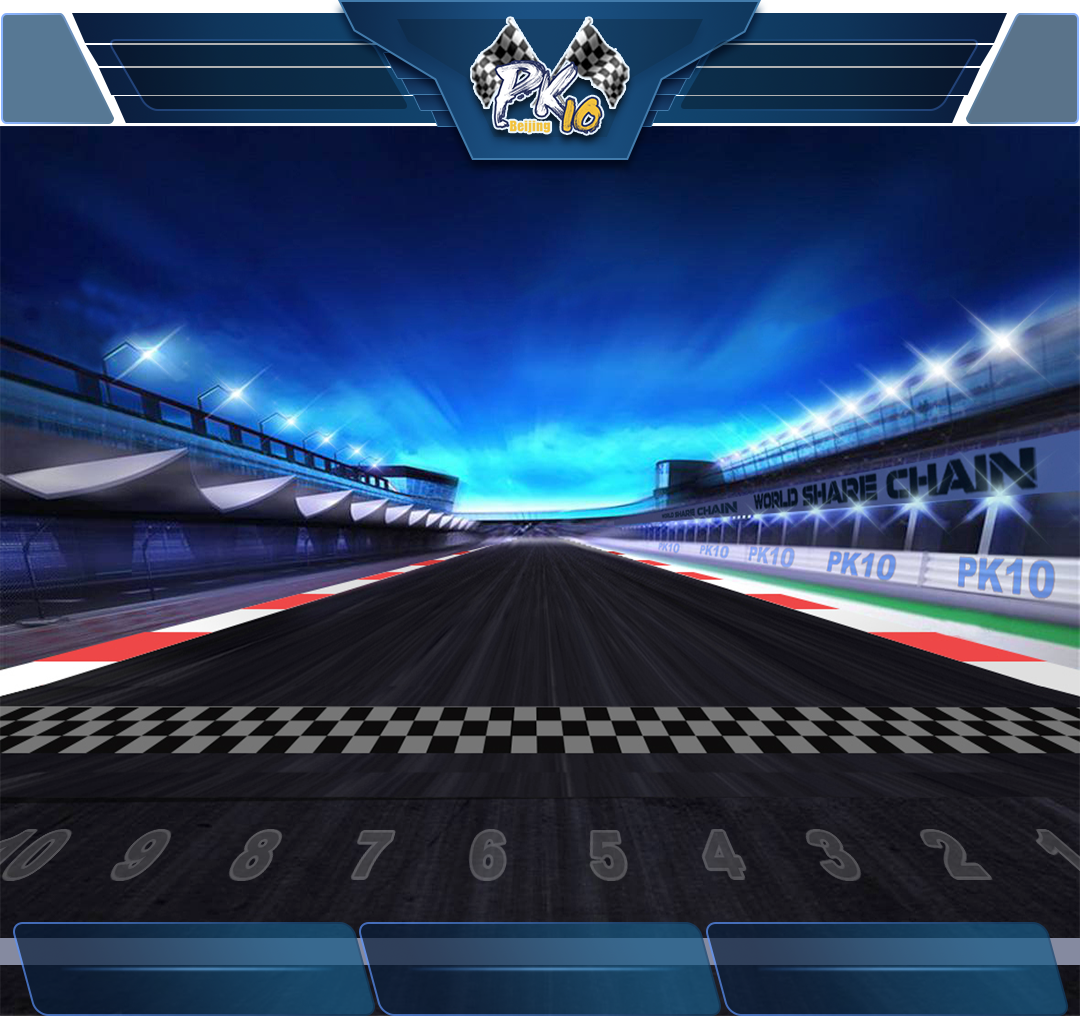
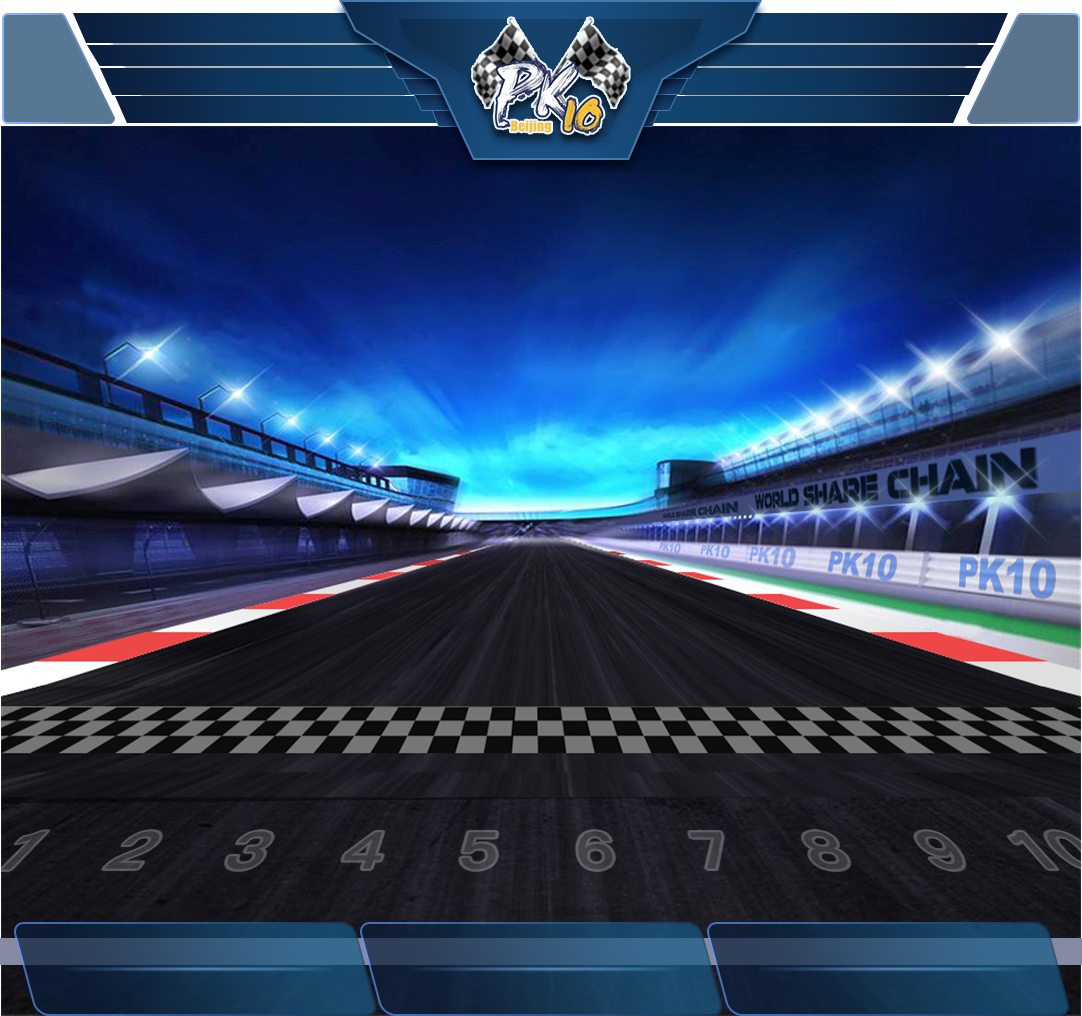
小车踩线bug修复

diff --git a/bin-debug/scene/GameScene.js b/bin-debug/scene/GameScene.js
@@ -39,7 +39,7 @@ var GameScene = (function (_super) {
         var outSide = this.tool.gitData();
         this.array = outSide.returna; //每次距离
         this.arrayBtn = outSide.returnb; //排序编号
-        egret.localStorage.setItem('arrayBtn', JSON.stringify(this.arrayBtn[9]));
+        egret.localStorage.setItem('arrayBtn', JSON.stringify(this.arrayBtn[8]));
         this.arraySelect = outSide.returnc; //火苗
         var distanceX = [144, 131, 119, 108, 96, 84, 78, 62, 50, 38];
         for (var i = 0; i < 10; i++) {
@@ -74,7 +74,7 @@ var GameScene = (function (_super) {
             var countDown = setTimeout(function () {
                 Global.replaceScene(new GameOverScene());
                 clearInterval(countDown);
-            }, 2000);
+            }, 4000);
         }
     };
     GameScene.prototype.scrollBg = function (pass) {
@@ -111,7 +111,7 @@ var GameScene = (function (_super) {
             for (var i = 0; i < 10; i++) {
                 this.carName[i].startAnimation(); //轮胎
                 if (this.count == 9) {
-                    this.carName[i].fly(this.array[this.count][i], 214 + 56 + 64 * (9 - i), 2000);
+                    this.carName[i].fly(-(this.array[8][i] * 2), 214 + 56 + 64 * (9 - i), 4000);
                 }
                 else {
                     this.carName[i].fly(1080 - this.array[this.count][i], 214 + 56 + 64 * (9 - i), 2000);

diff --git a/src/scene/GameOverScene.ts b/src/scene/GameOverScene.ts
@@ -8,20 +8,20 @@ class GameOverScene extends eui.Component implements eui.UIComponent {
 		super.childrenCreated();
 		this.init()
 	}
-	//初始化
+	//初始化  越大越快
 	private init() {
-		var optionss = JSON.parse(egret.localStorage.getItem('arrayBtn')) || [8, 2, 10, 1, 7, 6, 3, 5, 4, 9];
+		var optionss = JSON.parse(egret.localStorage.getItem('arrayBtn')) || [10, 6, 8, 9, 1, 5, 7, 2, 4, 3];
 		this.gameOther = new gameOther()
 		this.gameOther.onFont('20200221173', '11:45', 'playOver');
 		this.addChild(this.gameOther)
 		var btnAry = []; var tempAry = [];
 		for (var i = 0; i < 10; i++) {
 			btnAry[i] = new btnSort((i + 1) + '_png')
-			btnAry[i].appear((optionss[i]) * 102.9 - 25, 194)
+			btnAry[i].appear(1080 - optionss[i] * 102.9 + 25, 194)
 			btnAry[i].setScale(1.2);
 			this.addChild(btnAry[i])
 		}
-		var nameList = [optionss.indexOf(2) + 1, optionss.indexOf(3) + 1, optionss.indexOf(1) + 1]
+		var nameList = [optionss.indexOf(9) + 1, optionss.indexOf(8) + 1, optionss.indexOf(10) + 1]
 		this.initImg(nameList);
 	}
 	public initImg(nameList: any) {
@@ -70,6 +70,5 @@ class GameOverScene extends eui.Component implements eui.UIComponent {
 				to({ x: item.fontX, y: item.fontY + 14 }, 800, egret.Ease.sineIn).
 				to({ x: item.fontX, y: item.fontY + 4 }, 800, egret.Ease.sineIn);
 		})
-
 	}
 }

diff --git a/bin-debug/scene/GameOverScene.js b/bin-debug/scene/GameOverScene.js
@@ -17,9 +17,9 @@ var GameOverScene = (function (_super) {
         _super.prototype.childrenCreated.call(this);
         this.init();
     };
-    //初始化
+    //初始化  越大越快
     GameOverScene.prototype.init = function () {
-        var optionss = JSON.parse(egret.localStorage.getItem('arrayBtn')) || [8, 2, 10, 1, 7, 6, 3, 5, 4, 9];
+        var optionss = JSON.parse(egret.localStorage.getItem('arrayBtn')) || [10, 6, 8, 9, 1, 5, 7, 2, 4, 3];
         this.gameOther = new gameOther();
         this.gameOther.onFont('20200221173', '11:45', 'playOver');
         this.addChild(this.gameOther);
@@ -27,11 +27,11 @@ var GameOverScene = (function (_super) {
         var tempAry = [];
         for (var i = 0; i < 10; i++) {
             btnAry[i] = new btnSort((i + 1) + '_png');
-            btnAry[i].appear((optionss[i]) * 102.9 - 25, 194);
+            btnAry[i].appear(1080 - optionss[i] * 102.9 + 25, 194);
             btnAry[i].setScale(1.2);
             this.addChild(btnAry[i]);
         }
-        var nameList = [optionss.indexOf(2) + 1, optionss.indexOf(3) + 1, optionss.indexOf(1) + 1];
+        var nameList = [optionss.indexOf(9) + 1, optionss.indexOf(8) + 1, optionss.indexOf(10) + 1];
         this.initImg(nameList);
     };
     GameOverScene.prototype.initImg = function (nameList) {

diff --git a/src/scene/GameScene.ts b/src/scene/GameScene.ts
@@ -39,7 +39,7 @@ class GameScene extends eui.Component implements eui.UIComponent {
 		var outSide = this.tool.gitData();
 		this.array = outSide.returna//每次距离
 		this.arrayBtn = outSide.returnb//排序编号
-		egret.localStorage.setItem('arrayBtn', JSON.stringify(this.arrayBtn[9]));
+		egret.localStorage.setItem('arrayBtn', JSON.stringify(this.arrayBtn[8]));
 		this.arraySelect = outSide.returnc//火苗
 		var distanceX = [144, 131, 119, 108, 96, 84, 78, 62, 50, 38];
 		for (var i = 0; i < 10; i++) {
@@ -73,7 +73,7 @@ class GameScene extends eui.Component implements eui.UIComponent {
 			var countDown = setTimeout(function () {
 				Global.replaceScene(new GameOverScene());
 				clearInterval(countDown);
-			}, 2000)
+			}, 4000)
 		}
 	}
 
@@ -112,7 +112,7 @@ class GameScene extends eui.Component implements eui.UIComponent {
 			for (var i = 0; i < 10; i++) {
 				this.carName[i].startAnimation();//轮胎
 				if (this.count == 9) {
-					this.carName[i].fly(this.array[this.count][i], 214 + 56 + 64 * (9 - i), 2000)
+					this.carName[i].fly(-(this.array[8][i] * 2), 214 + 56 + 64 * (9 - i), 4000)
 				} else {
 					this.carName[i].fly(1080 - this.array[this.count][i], 214 + 56 + 64 * (9 - i), 2000)
 				}

diff --git a/bin-debug/tool/tool.js b/bin-debug/tool/tool.js
@@ -67,11 +67,11 @@ var tool = (function () {
         for (var i = 0; i < 10; i++) {
             arr[i] = [];
             for (var j = 0; j < 10; j++) {
-                if (i == 0 && this.newFire[0][j] > 500) {
+                if (i == 0 && this.newFire[0][j] > 400) {
                     arr[0].push(j + 1);
                 }
                 if (i > 0 && i < 9) {
-                    if (this.newFire[i][j] - this.newFire[i - 1][j] >= 500) {
+                    if (this.newFire[i][j] - this.newFire[i - 1][j] >= 400) {
                         arr[i].push(j + 1);
                     }
                 }

diff --git a/bin-debug/components/BaseCar.js b/bin-debug/components/BaseCar.js
@@ -83,7 +83,12 @@ var BaseCar = (function (_super) {
     BaseCar.prototype.fly = function (x, y, speed) {
         egret.Tween.removeTweens(this);
         var tw = egret.Tween.get(this, {});
-        tw.to({ x: x, y: y }, 2000, egret.Ease.sineOut);
+        tw.to({ x: x, y: y }, speed, egret.Ease.sineOut);
+    };
+    BaseCar.prototype.flyend = function (x, y, speed) {
+        egret.Tween.removeTweens(this);
+        var tw = egret.Tween.get(this, {});
+        tw.to({ x: x, y: y });
     };
     //加速火苗
     BaseCar.prototype.speedUp = function (i) {

diff --git a/src/components/BaseCar.ts b/src/components/BaseCar.ts
@@ -25,7 +25,12 @@ class BaseCar extends egret.DisplayObjectContainer {
 	public fly(x: number, y: number, speed: number) {
 		egret.Tween.removeTweens(this)
 		var tw = egret.Tween.get(this, {});
-		tw.to({ x, y }, 2000, egret.Ease.sineOut)
+		tw.to({ x, y }, speed, egret.Ease.sineOut)
+	}
+	public flyend(x: number, y: number, speed: number) {
+		egret.Tween.removeTweens(this)
+		var tw = egret.Tween.get(this, {});
+		tw.to({ x, y })
 	}
 
 	//加速火苗

diff --git a/src/tool/tool.ts b/src/tool/tool.ts
@@ -74,12 +74,12 @@ class tool {
 		for (var i = 0; i < 10; i++) {
 			arr[i] = [];
 			for (var j = 0; j < 10; j++) {
-				if (i == 0 && this.newFire[0][j] > 500) {
+				if (i == 0 && this.newFire[0][j] > 400) {
 					arr[0].push(j + 1)
 				}
 
 				if (i > 0 && i < 9) {
-					if (this.newFire[i][j] - this.newFire[i - 1][j] >= 500) {
+					if (this.newFire[i][j] - this.newFire[i - 1][j] >= 400) {
 						arr[i].push(j + 1)
 					}
 				}

diff --git a/src/LoadingUI.ts b/src/LoadingUI.ts
@@ -16,7 +16,7 @@ class LoadingUI extends egret.Sprite implements RES.PromiseTaskReporter {
 
     public onProgress(current: number, total: number): void {
         var text = (current / total) * 100;
-        var t = parseInt(text.toString())
+        var t = parseInt(text.toString())+2
         this.textField.text = `${t}` + '%';
         var temp = t / 100 * 16
         for (var i = 0; i <= temp; i++) {

diff --git a/bin-debug/LoadingUI.js b/bin-debug/LoadingUI.js
@@ -23,7 +23,7 @@ var LoadingUI = (function (_super) {
     };
     LoadingUI.prototype.onProgress = function (current, total) {
         var text = (current / total) * 100;
-        var t = parseInt(text.toString());
+        var t = parseInt(text.toString()) + 2;
         this.textField.text = "" + t + '%';
         var temp = t / 100 * 16;
         for (var i = 0; i <= temp; i++) {

diff --git a/bin-debug/Global.js b/bin-debug/Global.js
@@ -15,7 +15,6 @@ var Global = (function () {
         this.stage.addChild(scene);
     };
     Global.painting = function (that, painting, item) {
-        console.log(item);
         that.addChild(painting);
         painting.x = item.x;
         painting.y = item.y;

diff --git a/src/Global.ts b/src/Global.ts
@@ -12,7 +12,6 @@ class Global {
 		this.stage.addChild(scene)
 	}
 	public static painting(that: any, painting: any, item: any) {
-		console.log(item);
 		that.addChild(painting);
 		painting.x = item.x;
 		painting.y = item.y;
